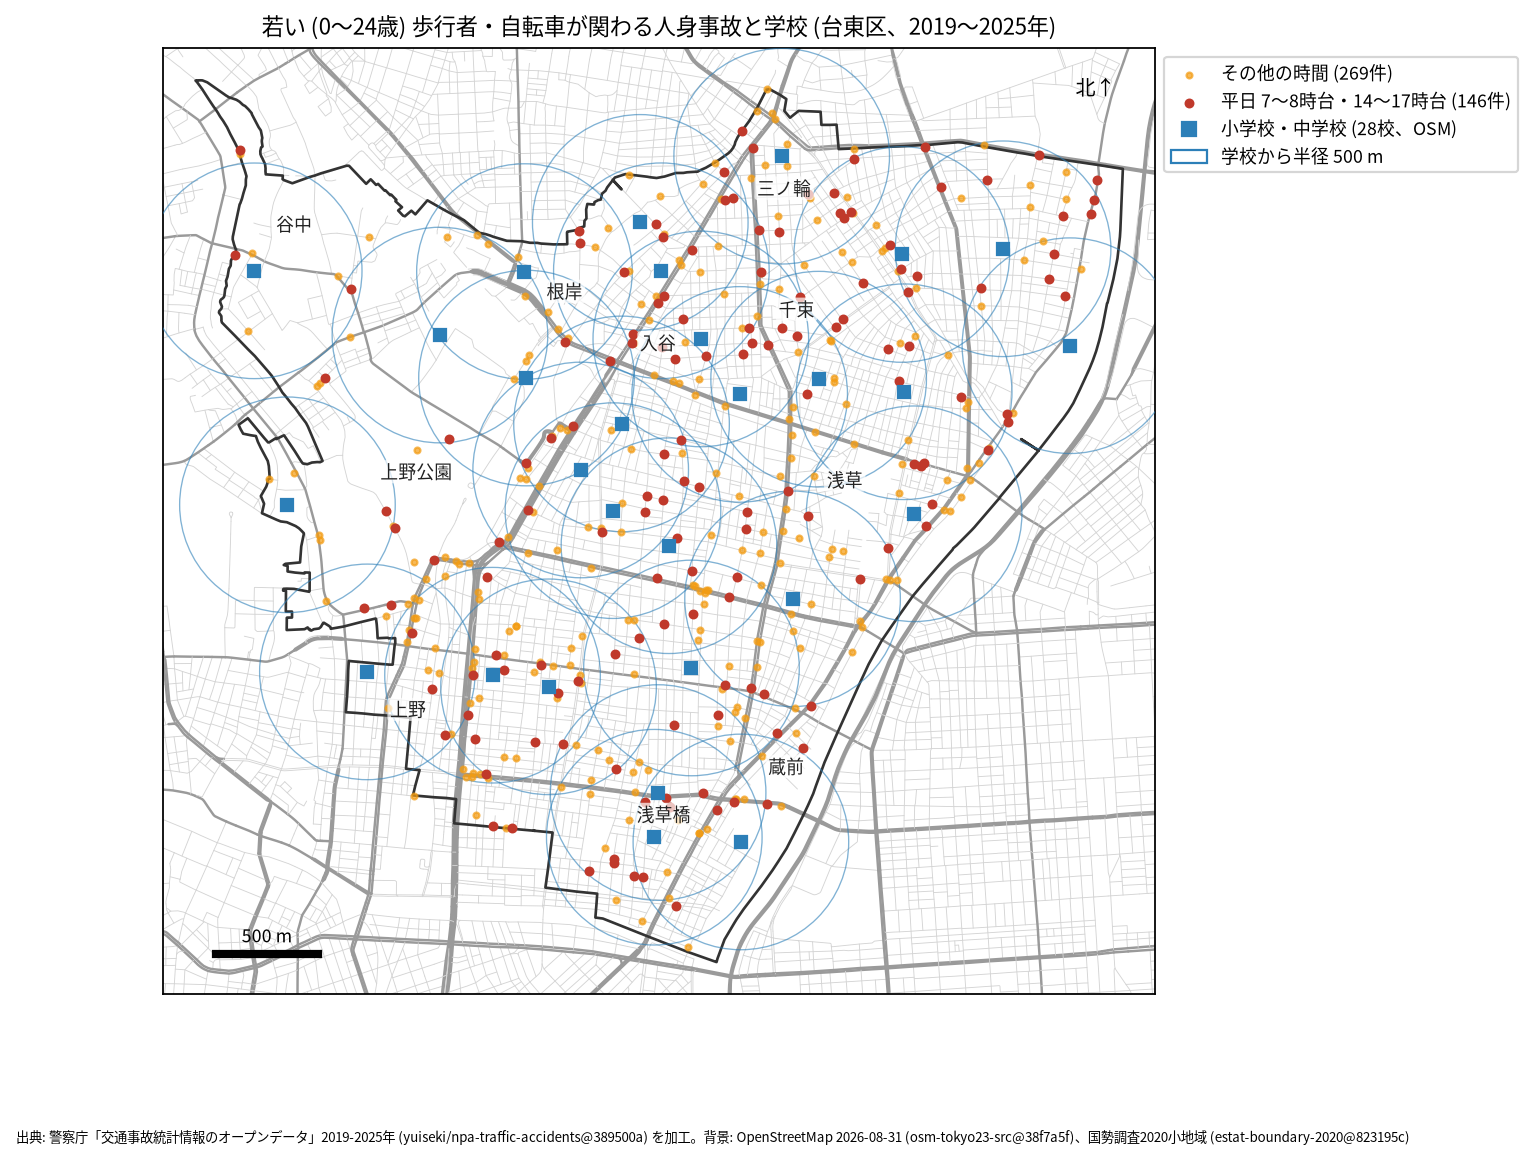
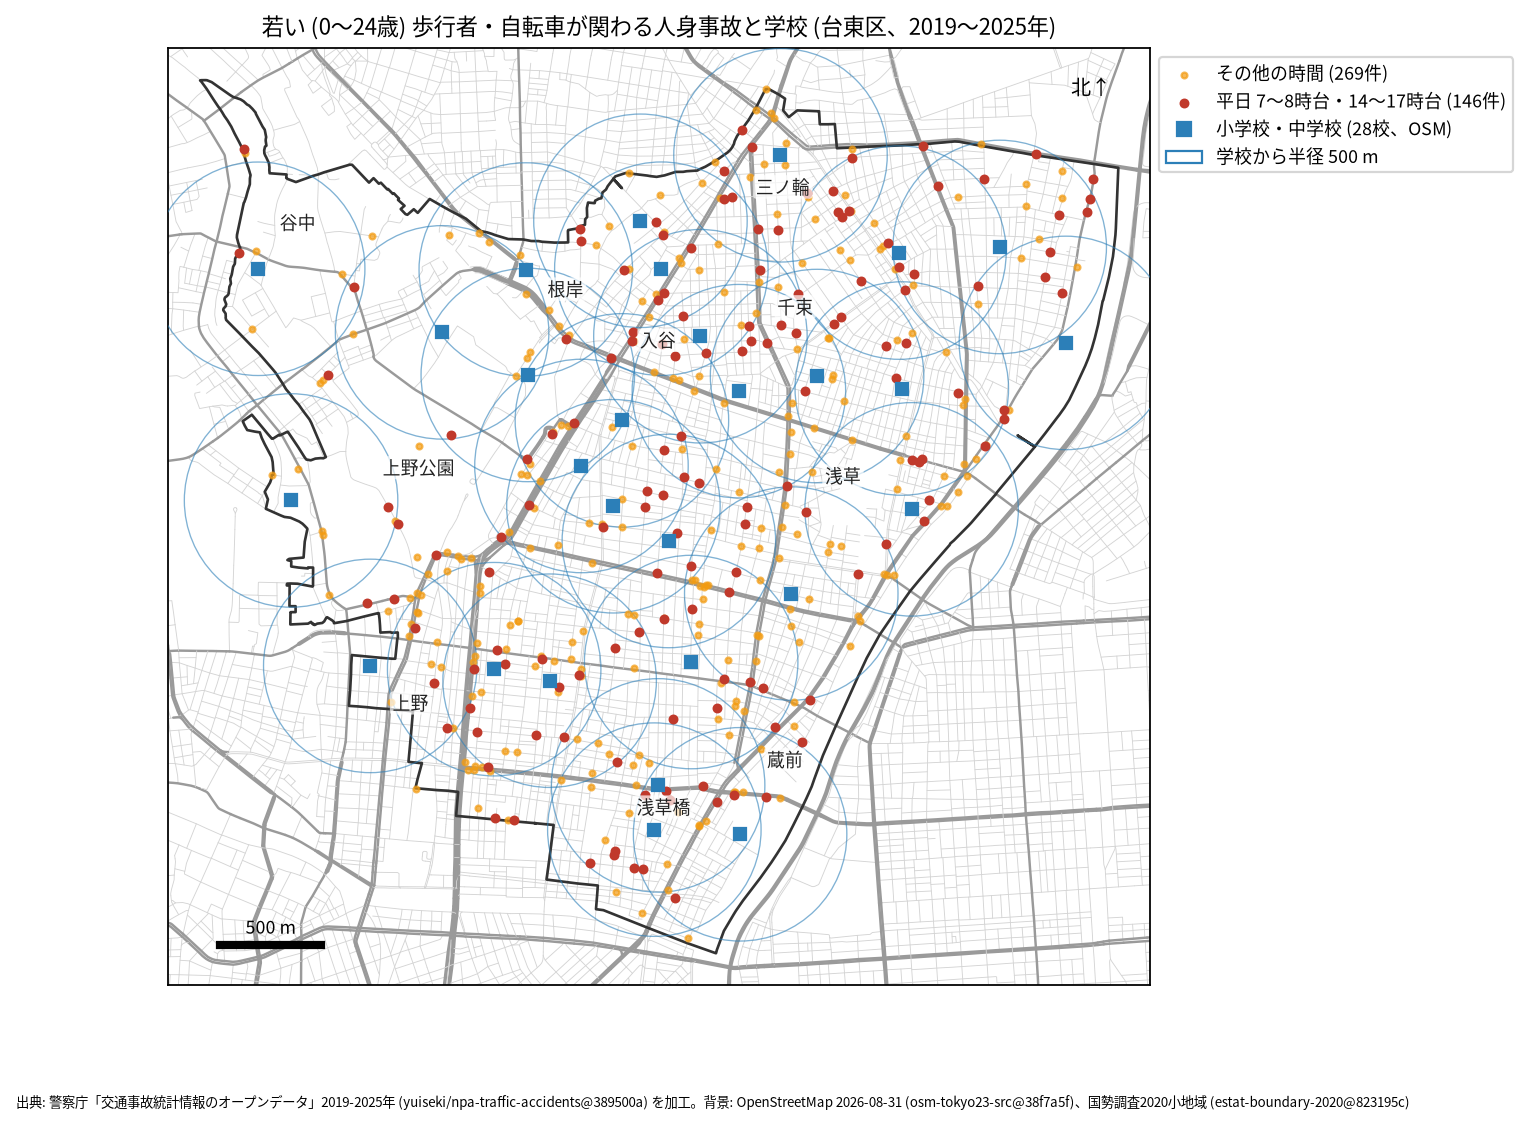
Taito template: yearly party pairs, closed schools listed, wider map background, maps sized by the ward
Also writes roads and towns in a fixed order (two prepare runs now give the same files) and states the age
bands in the report's method.

Claude-Session: https://claude.ai/code/session_01NkWLXtsKgqQGFwWTBKgPox

Changed region(s): [[0.0922, 0.0, 0.9836, 0.8703], [0.0307, 0.9636, 0.9222, 0.9947]]

diff --git a/projects/_traffic_accident/taito-accident-trends-by-role/scripts/prepare.py b/projects/_traffic_accident/taito-accident-trends-by-role/scripts/prepare.py
@@ -36,6 +36,7 @@ TOWN_POPULATION = 211444
 # A name starting with 旧 is a closed school kept on the map (Sumida's 旧墨田区立 鐘淵中学校; 17 such names in the
 # 23 wards, none in Taito).
 SCHOOL = "amenity = 'school' and (name like '%小学校' or name like '%中学校') and name not like '旧%'"
+CLOSED = "amenity = 'school' and (name like '%小学校' or name like '%中学校') and name like '旧%'"
 
 
 def main():
@@ -66,7 +67,7 @@ def main():
 
     con.sql(f"""copy (
         select KEY_CODE, S_NAME, HCODE, cast(JINKO as integer) as JINKO, geometry from '{TOWNS}'
-        where CITY = '{CITY}' and PREF = '13'
+        where CITY = '{CITY}' and PREF = '13' order by KEY_CODE, S_NAME
     ) to '{OUT / "towns.parquet"}' (format parquet)""")
     n, units, pop = con.execute(
         f"select count(*), count(distinct KEY_CODE), sum(JINKO) from '{OUT / 'towns.parquet'}'").fetchall()[0]
@@ -89,6 +90,14 @@ def main():
         select name, avg(ST_X(p)) as lon, avg(ST_Y(p)) as lat, count(*) as shapes
         from school_shapes, ward_shape where ST_Contains(ward_shape.g, p) group by name order by name
     ) to '{OUT / "schools.parquet"}' (format parquet)""")
+    # The closed schools left out, by name, so that the reports can say how many (Kita could not).
+    con.sql(f"""copy (select distinct name from (
+        select name, ST_Transform(ST_Centroid(way), 'EPSG:3857', 'EPSG:4326', always_xy := true) as p
+        from '{OSM}/planet_osm_polygon.parquet' where {CLOSED}
+        union all
+        select name, ST_Transform(way, 'EPSG:3857', 'EPSG:4326', always_xy := true)
+        from '{OSM}/planet_osm_point.parquet' where {CLOSED}), ward_shape where ST_Contains(ward_shape.g, p) order by name
+    ) to '{OUT / "schools_closed.csv"}' (header, delimiter ',')""")
 
     con.sql(f"""copy (
         select osm_id, highway, name,
@@ -98,7 +107,8 @@ def main():
                           'living_street','motorway_link','trunk_link','primary_link','secondary_link','tertiary_link')
           and ST_Intersects(ST_Transform(way, 'EPSG:3857', 'EPSG:4326', always_xy := true),
                             ST_MakeEnvelope({xmin - 0.003}, {ymin - 0.003}, {xmax + 0.003}, {ymax + 0.003}))
-    ) to '{OUT / "roads.parquet"}' (format parquet)""")
+        order by osm_id, highway, name
+    ) to '{OUT / "roads.parquet"}' (format parquet)""")  # a fixed order: the maps draw roads in it
 
     for name in ["tokyo_honhyo", "wards", "towns", "schools", "roads"]:
         print(name, con.execute(f"select count(*) from '{OUT / name}.parquet'").fetchall()[0][0])

diff --git a/projects/_traffic_accident/taito-accident-trends-by-role/scripts/plot.py b/projects/_traffic_accident/taito-accident-trends-by-role/scripts/plot.py
@@ -22,6 +22,7 @@ import matplotlib.pyplot as plt  # noqa: E402
 import numpy as np  # noqa: E402
 from matplotlib.colors import BoundaryNorm, ListedColormap  # noqa: E402
 from matplotlib.patches import Circle, Patch, Rectangle  # noqa: E402
+from matplotlib.ticker import MaxNLocator  # noqa: E402
 from shapely import wkb  # noqa: E402
 
 PROJECT = Path(__file__).resolve().parents[1]
@@ -115,6 +116,12 @@ class Base:
             ST_X(ST_Transform(ST_Point(lon, lat), 'OGC:CRS84', 'EPSG:6677')),
             ST_Y(ST_Transform(ST_Point(lon, lat), 'OGC:CRS84', 'EPSG:6677')) from '{ART / 'schools.parquet'}'""").fetchall()
 
+    def map_height(self, width):
+        """A map figure's height for this width, from the ward's height / width: a wide ward (Arakawa, Ota,
+        Shinagawa) left a band of blank paper under a fixed square figure. Between 4.5 and 10 inches."""
+        xmin, ymin, xmax, ymax = self.ward.bounds
+        return float(min(10.0, max(4.5, width * (ymax - ymin) / (xmax - xmin))))
+
     def point_rows(self):
         return self.points
 
@@ -203,6 +210,7 @@ def fig_categories():
             ax.plot(years, [int(r["broad"]) for r in rows], marker="s", color="#2c7fb8", label="広い読み")
             ax.legend(fontsize=8, loc="lower left")
         ax.set_ylim(0, None)
+        ax.yaxis.set_major_locator(MaxNLocator(integer=True))  # counts: 0.2 steps showed for 0-1 cases (Arakawa)
         ax.set_title(title, fontsize=10)
         ax.set_ylabel("件", fontsize=9)
         ax.grid(axis="y", color="#eeeeee")
@@ -295,7 +303,7 @@ def fig_hour_profile():
 def fig_school_map(base):
     pts = [p for p in base.point_rows() if p["young_pb"]]
     schools = read_csv("schools.csv")
-    fig, ax = plt.subplots(figsize=(8, 8))
+    fig, ax = plt.subplots(figsize=(8, base.map_height(8)))
     texts = base.draw(ax)
     xy = {n: (x, y) for n, x, y in base.schools}
     squares = []
@@ -460,7 +468,7 @@ def fig_town_rate(base):
     top = [rows[k] for k in audit["town_top5"]]
     # Short-road towns above the fifth: they would have been ranked, and the margin names them.
     small = [u for u in audit["small_road_units"] if top and u["per_road_km_year"] > float(top[-1]["per_road_km_year"])]
-    fig, ax = plt.subplots(figsize=(8.5, 8))
+    fig, ax = plt.subplots(figsize=(8.5, base.map_height(8.5)))
     shapes = {}
     for code, g in geoms:
         geom = wkb.loads(g)

diff --git a/projects/_traffic_accident/taito-accident-trends-by-role/scripts/analyze.py b/projects/_traffic_accident/taito-accident-trends-by-role/scripts/analyze.py
@@ -347,6 +347,15 @@ def main():
     matrix = Counter((party_group(r["type_A"], r["use_A"]), party_group(r["type_B"], r["use_B"])) for r in mine)
     files["parties"] = write_csv("party_matrix.csv", [{"party_A": a, "party_B": b, "accidents": n}
                                                        for (a, b), n in sorted(matrix.items(), key=lambda kv: -kv[1])])
+    # The same by year, to tell which pair moved in a year that jumped (Kita's cyclists rose in 2022-2023).
+    by_year = Counter((r["file_year"], party_group(r["type_A"], r["use_A"]), party_group(r["type_B"], r["use_B"]))
+                      for r in mine)
+    files["parties_by_year"] = write_csv("party_by_year.csv", [
+        {"year": y, "party_A": a, "party_B": b, "accidents": n} for (y, a, b), n in sorted(by_year.items())])
+    closed = ART / "schools_closed.csv"
+    if closed.exists():
+        with closed.open(encoding="utf-8") as f:
+            audit["closed_schools_left_out"] = [r["name"] for r in csv.DictReader(f)]
     deaths = [{"year": r["file_year"], "type_A": party_group(r["type_A"], r["use_A"]), "age_A": r["age_A"],
                "type_B": party_group(r["type_B"], r["use_B"]), "age_B": r["age_B"], "hour": r["hour"],
                "kind": r["kind"], "died": r["died"],

diff --git a/projects/_traffic_accident/taito-accident-trends-by-role/README.md b/projects/_traffic_accident/taito-accident-trends-by-role/README.md
@@ -13,14 +13,14 @@ env -u PYTHONPATH uvx --with numpy --with 'duckdb>=1.5.5' --with shapely --with 
   --source "警察庁 交通事故オープンデータ 2019-2025 (npa-traffic-accidents@389500a)、国勢調査2020小地域 (estat-boundary-2020@823195c)、道路延長 OSM 2026-08-31 (osm-tokyo23-src@38f7a5f)" \
   --no-labels --title "台東区のどの町丁で、道路の長さに比べて人身事故が多いか (2019〜2025年)" \
   --context "hf://datasets/yuiseki/jp-admin-2026-09@e6c87b1d7095c17422147962185071a986e13135/municipalities.parquet" \
-  --context-name name --context-where "code5 between '13101' and '13123'" --context-crs EPSG:4612 \
+  --context-name name --context-where "substr(code5, 1, 2) in ('11', '12', '13', '14') and ward is null" --context-crs EPSG:4612 \
   --context-source "jp-admin-2026-09@e6c87b1" --highlight projects/_traffic_accident/taito-accident-trends-by-role/tmp/town-highlights.csv \
   --expect-units 108 --png projects/_traffic_accident/taito-accident-trends-by-role/outputs/town-rate-quantile.png
 env -u PYTHONPATH uvx --from 'duckdb>=1.5.5' --with numpy --with shapely --with matplotlib python projects/_traffic_accident/taito-accident-trends-by-role/scripts/plot.py
 python3 projects/_traffic_accident/taito-accident-trends-by-role/scripts/summarize.py
 ```
 
-`env -u PYTHONPATH` は、環境の PYTHONPATH (anaconda) の numpy や pandas が uvx の環境に混ざらないようにするため。`--expect-units` は町丁を KEY_CODE でまとめた後の数 (`prepare.TOWN_UNITS`) で、境界ファイルの行数ではない。背景の区の名前が強調の番号に重なる区では、`--context-where` に自分の区を除く条件 (`and code5 <> '13xxx'`) を足す (品川区)。
+`env -u PYTHONPATH` は、環境の PYTHONPATH (anaconda) の numpy や pandas が uvx の環境に混ざらないようにするため。`--expect-units` は町丁を KEY_CODE でまとめた後の数 (`prepare.TOWN_UNITS`) で、境界ファイルの行数ではない。背景は東京、埼玉、千葉、神奈川の市区町村にする (政令市は区でなく市の面、`ward is null`)。23 区だけにすると、都の境の外 (荒川の北など) が水面の色で塗られる (北区)。背景の区の名前が強調の番号に重なる区では、`--context-where` に自分の区を除く条件 (`and code5 <> '13xxx'`) を足す (品川区)。
 
 `tmp/town-highlights.csv` は `outputs/towns.csv` の `per_road_km_year` の上位 5 町丁 (列 id、group、rank) で、analyze.py が書く。classify_map.py は階級と区切りの比べを決める役で、報告に貼る町丁の地図は、その区切りで `plot.py` が地名と道路を重ねて描く (`town-rate.png`)。
 

diff --git a/projects/_traffic_accident/taito-accident-trends-by-role/EXPERIMENT_TRACKER.md b/projects/_traffic_accident/taito-accident-trends-by-role/EXPERIMENT_TRACKER.md
@@ -18,3 +18,4 @@
 | R014 | B5 | exploratory | done | outputs/hotspots.csv, outputs/hotspots-map.json, outputs/summary.txt | 葛飾区の報告から型を直した (2026-11-03)。地点の番号が、自分以外の円を隠していないかも数える (葛飾区の 15 が 1 位の円に乗っていた)。hotspots.csv に円の中の首都高速の件数 (`expressway`) を足す。summary.txt に、路線の種類の 7 年の合計と、上位 15 の路線と道路名を足す。plot.py は `__pycache__` を作らない | 台東区の拡大図でも、12 が 2 位の円に、13 が 12 位の円に乗っていた。`ZOOM_NUMBER_OFFSETS` で 2 つを円の下に移し、text_overlaps は 0 件。図を目で確かめた |
 | R015 | B6 | exploratory | done | outputs/towns.csv | 足立区の報告から型を直した (2026-11-03)。towns.csv に町丁ごとの首都高速の件数 (`expressway`) を足した。高架の下の町丁は、その件数と高架の道路延長の両方を数えるため | 台東区の町丁の首都高速の件数の合計は 8 件で、区の件数と同じ。ほかの列は前と同じ |
 | R016 | B5 | exploratory | done | outputs/hotspots.csv, outputs/hotspot-halves.png | 江戸川区の報告から型を直した (2026-11-03)。地点の 1 本目の道も 30 m 以内のときだけ名前にし、距離を `road_1_m` に残す。名前の無い地点は図で町丁名で呼ぶ (江戸川区の 1 位は、名前のある最も近い道が 428 m 先の京葉道路だった)。README のテストのコマンドに `PYTHONDONTWRITEBYTECODE=1` を足した | 台東区の 1 本目の道は全ての地点で 8.3 m 以内で、名前は変わらない。hotspot-halves.png は欄外の注記だけが変わった |
+| R017 | B3、B4、B5、B6 | exploratory | done | outputs/party_by_year.csv, outputs/analysis.json, outputs/school-map.png, outputs/town-rate.png | 北区と荒川区の報告から型を直した (2026-11-03)。年ごとの当事者の組み合わせ (`party_by_year.csv`)、除いた閉校した学校の名前 (`closed_schools_left_out`)、classify_map の背景を東京、埼玉、千葉、神奈川の市区町村に広げる (都の境の外が水面の色に塗られた)、学校の地図と町丁の地図の高さを区の縦横比から決める (横長の区の下の空白)、件数の軸を整数の目盛りにする、報告の方法に年齢層の定義を書く。prepare.py は道路と町丁を決まった順に書く (2 回の実行で md5 が一致) | 台東区に閉校した学校は無い。CSV と summary.txt は前と同じ。学校の地図と町丁の地図は横長になり (台東区は幅より高さが短い)、text_overlaps は 0 件 |

diff --git a/projects/_traffic_accident/taito-accident-trends-by-role/report.md b/projects/_traffic_accident/taito-accident-trends-by-role/report.md
@@ -105,6 +105,7 @@
 ## 方法
 
 - 読み方は結果を見る前に [計画](EXPERIMENT_PLAN.md) で固定し、実行は [記録](EXPERIMENT_TRACKER.md) に残した。生活道路は `車道幅員` が 01、02、11 (狭い読み)、広い読みは 14、17 を足す。歩行者や自転車が関わるかは当事者 A と B の両方で見て、1 件を 1 回数えた。
+- 年齢はデータの年齢層で読む。若い人は 01 (0〜24 歳)、高齢の人は 65 (65〜74 歳) と 75 (75 歳以上)。
 - 距離は EPSG:6677 (メートル) で測った。町丁の道路あたりの上位 5 には、道路が 0.5 km より短い町丁を数えない (1 件で値が大きく振れるため。塗りは同じ式)。地点は、半径 30 m の中の件数が最も多い点を中心に選び、その円の事故を除いて次を選ぶ手順を 15 回くり返した。地点の名前は、中心に最も近い道と、それと 30 度以上の向きで交わる道のうち最も近い道 (1 本の道に別名が 2 つあると、交差点でない組になるため)。
 - 地図は `analysis-visualize` の map-context に合わせ、地名と道路を重ね、凡例を地図の外に置き、強調した単位に番号を付けた。描いた町丁の数 (108) を分析の数と照らし、文字の重なりと、地名や番号が円や学校の印を隠す重なりは、3 枚の地図で 0 件 (2026-11-03 に印との重なりも数えるようにし、地名 3 つの位置を直した)。背景の道路 (OGC:CRS84) と町丁 (JGD2000) の差は、線の幅より小さいとして変換せずに重ねた。
 - 関門: 予測と回帰をしないので、評価の分け方と残差の確認は要らない。単位の間の相関を結論にしないので、Moran's I と格子の掃引は省いた。推移は 23 区全体を基準にし、年の件数に Poisson の 95% 区間を付けた。対策の効果は推定していない。
